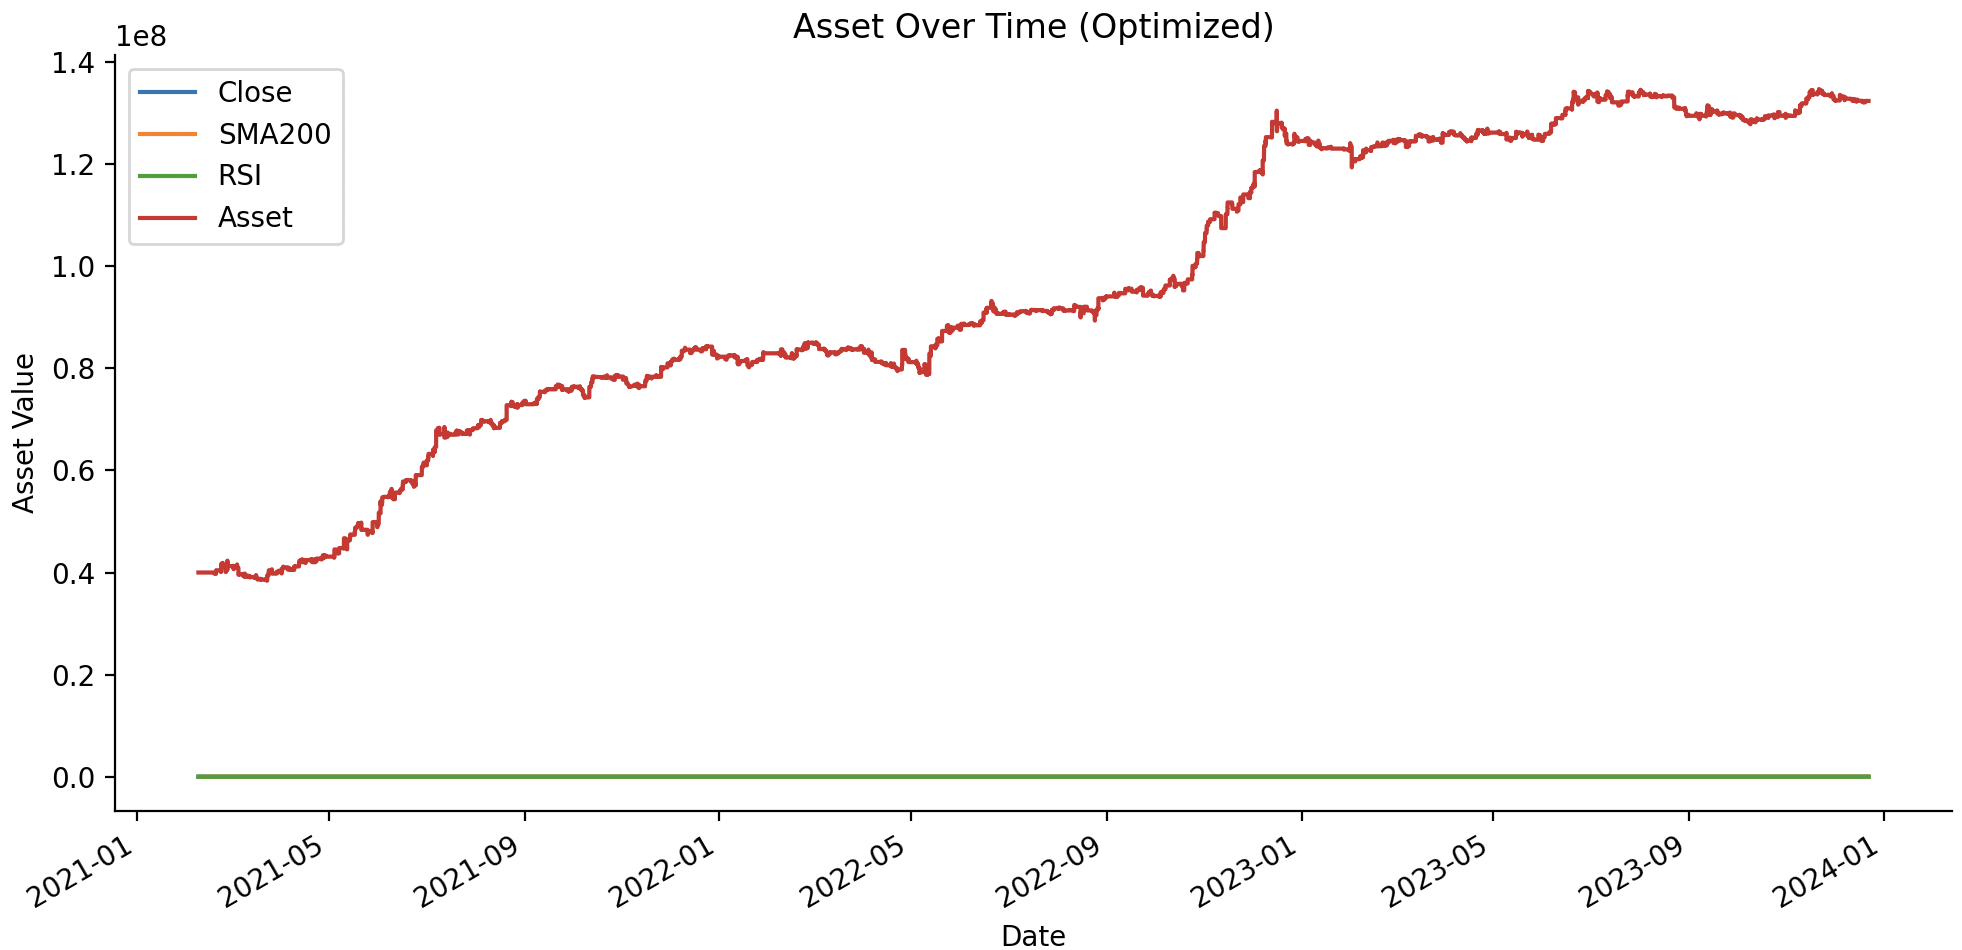
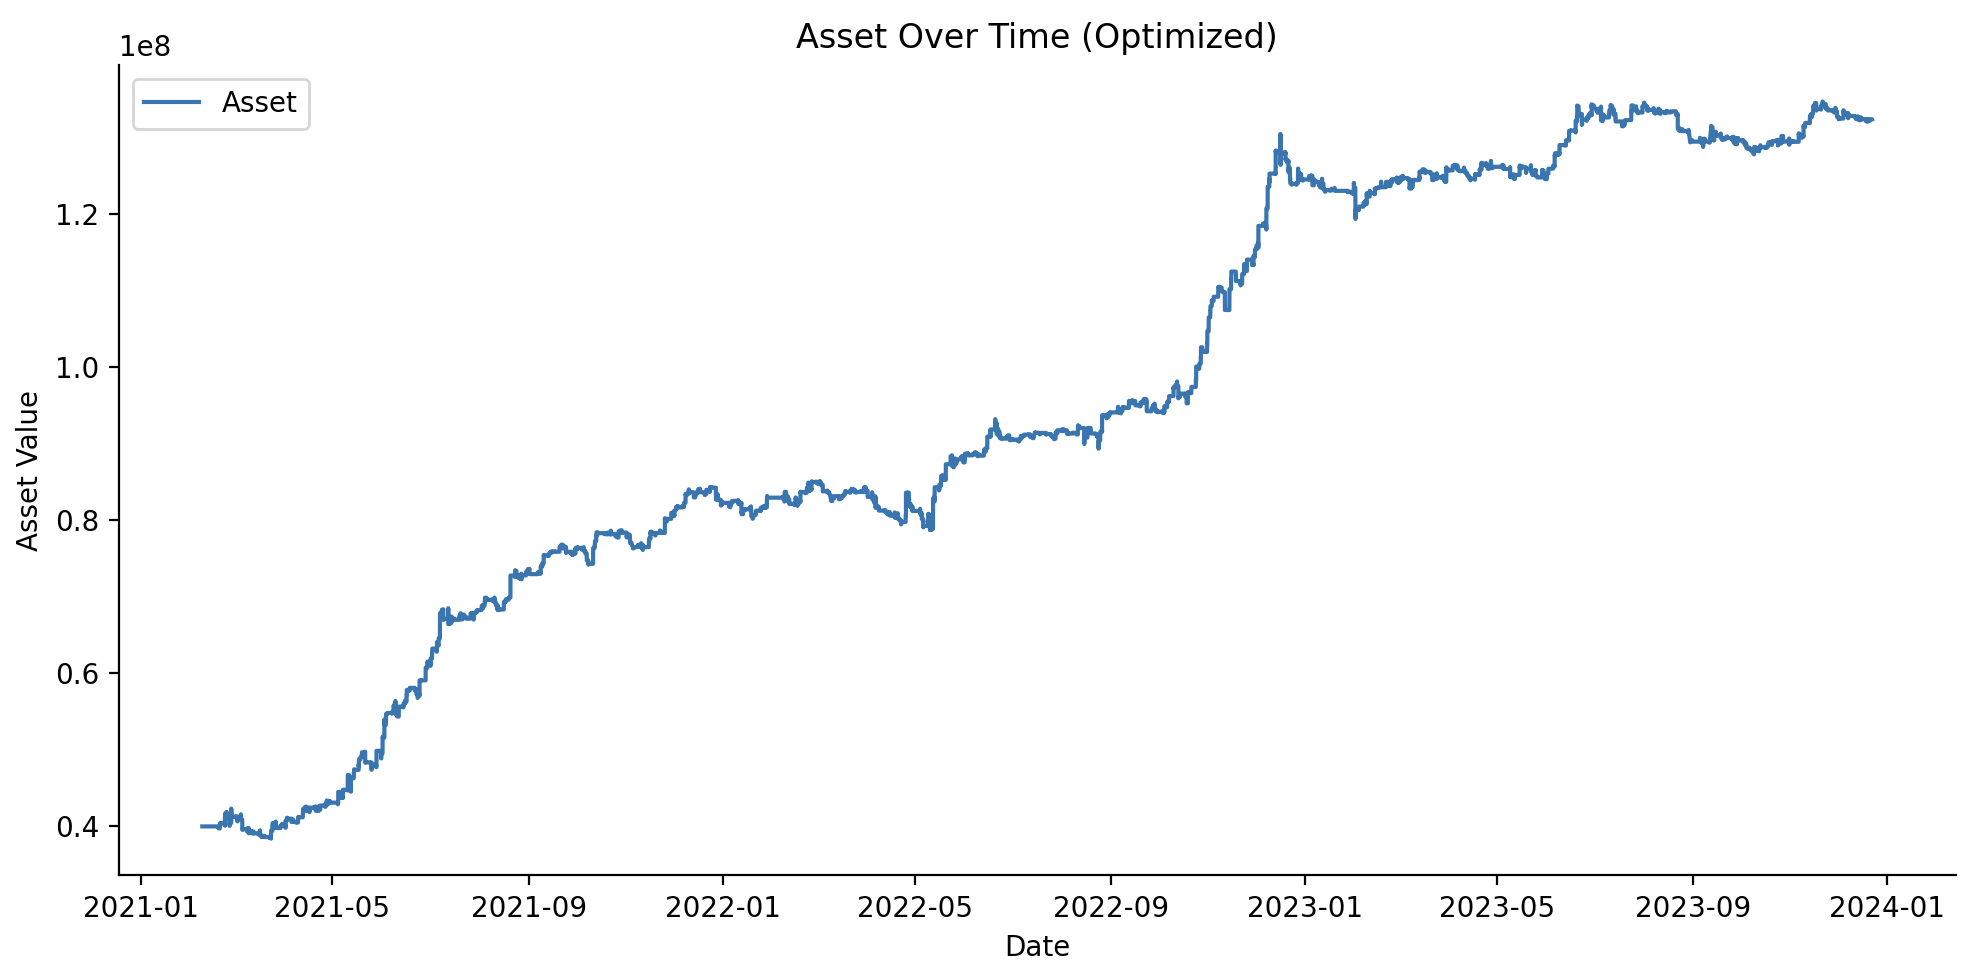
edit graph

diff --git a/src/optimize.py b/src/optimize.py
@@ -6,7 +6,7 @@ import json
 from src.data import load_data
 from src.strategy import run_strategy
 from src.evaluate import sharpe_ratio, maximum_drawdown, holding_period_return
-from src.utils import plot_all_optuna
+from src.utils import plot_all_optuna, plot_asset_over_time
 
 def objective(trial, data):
     sma_window = trial.suggest_int("sma_window", 50, 200)
@@ -58,12 +58,14 @@ if __name__ == "__main__":
     # Vẽ biểu đồ asset và biểu đồ Optuna
     import matplotlib.pyplot as plt
 
-    asset_df.plot(kind='line', figsize=(10, 5), title="Asset Over Time (Optimized)")
-    plt.ylabel("Asset Value")
-    plt.xlabel("Date")
-    plt.gca().spines[['top', 'right']].set_visible(False)
-    plt.tight_layout()
-    plt.show()
+    # asset_df.plot(kind='line', figsize=(10, 5), title="Asset Over Time (Optimized)")
+    # plt.ylabel("Asset Value")
+    # plt.xlabel("Date")
+    # plt.gca().spines[['top', 'right']].set_visible(False)
+    # plt.tight_layout()
+    # plt.show()
+
+    plot_asset_over_time(asset_df, title="Asset Over Time (Optimized)")
 
     # Biểu đồ Optuna
     plot_all_optuna(study)

diff --git a/src/utils.py b/src/utils.py
@@ -44,14 +44,27 @@ def plot_drawdown(df):
     plt.show()
     plt.close()
 
+# def plot_asset_over_time(df, title="Asset Over Time"):
+#     df.plot(kind='line', figsize=(10, 5), title=title)
+#     plt.ylabel("Asset Value")
+#     plt.xlabel("Date")
+#     plt.gca().spines[['top', 'right']].set_visible(False)
+#     plt.tight_layout()
+#     plt.show()
+#     plt.close()
+
 def plot_asset_over_time(df, title="Asset Over Time"):
-    df.plot(kind='line', figsize=(10, 5), title=title)
+    plt.figure(figsize=(10, 5))
+    plt.plot(df["Asset"], label="Asset")
+    plt.title(title)
     plt.ylabel("Asset Value")
     plt.xlabel("Date")
+    plt.legend()
     plt.gca().spines[['top', 'right']].set_visible(False)
     plt.tight_layout()
     plt.show()
     plt.close()
+
 
 def plot_all_optuna(study):
     """

diff --git a/src/backtest.py b/src/backtest.py
@@ -37,6 +37,8 @@ def run_backtest(data, params):
     # plt.gca().spines[['top', 'right']].set_visible(False)
     # plt.tight_layout()
     # plt.show()
+    print("🧾 Các cột trong asset_over_time_df:", asset_over_time_df.columns.tolist())
+
 
     # Vẽ các biểu đồ hỗ trợ phân tích
     plot_asset_over_time(asset_over_time_df, title="Asset Over Time (Backtest)")
